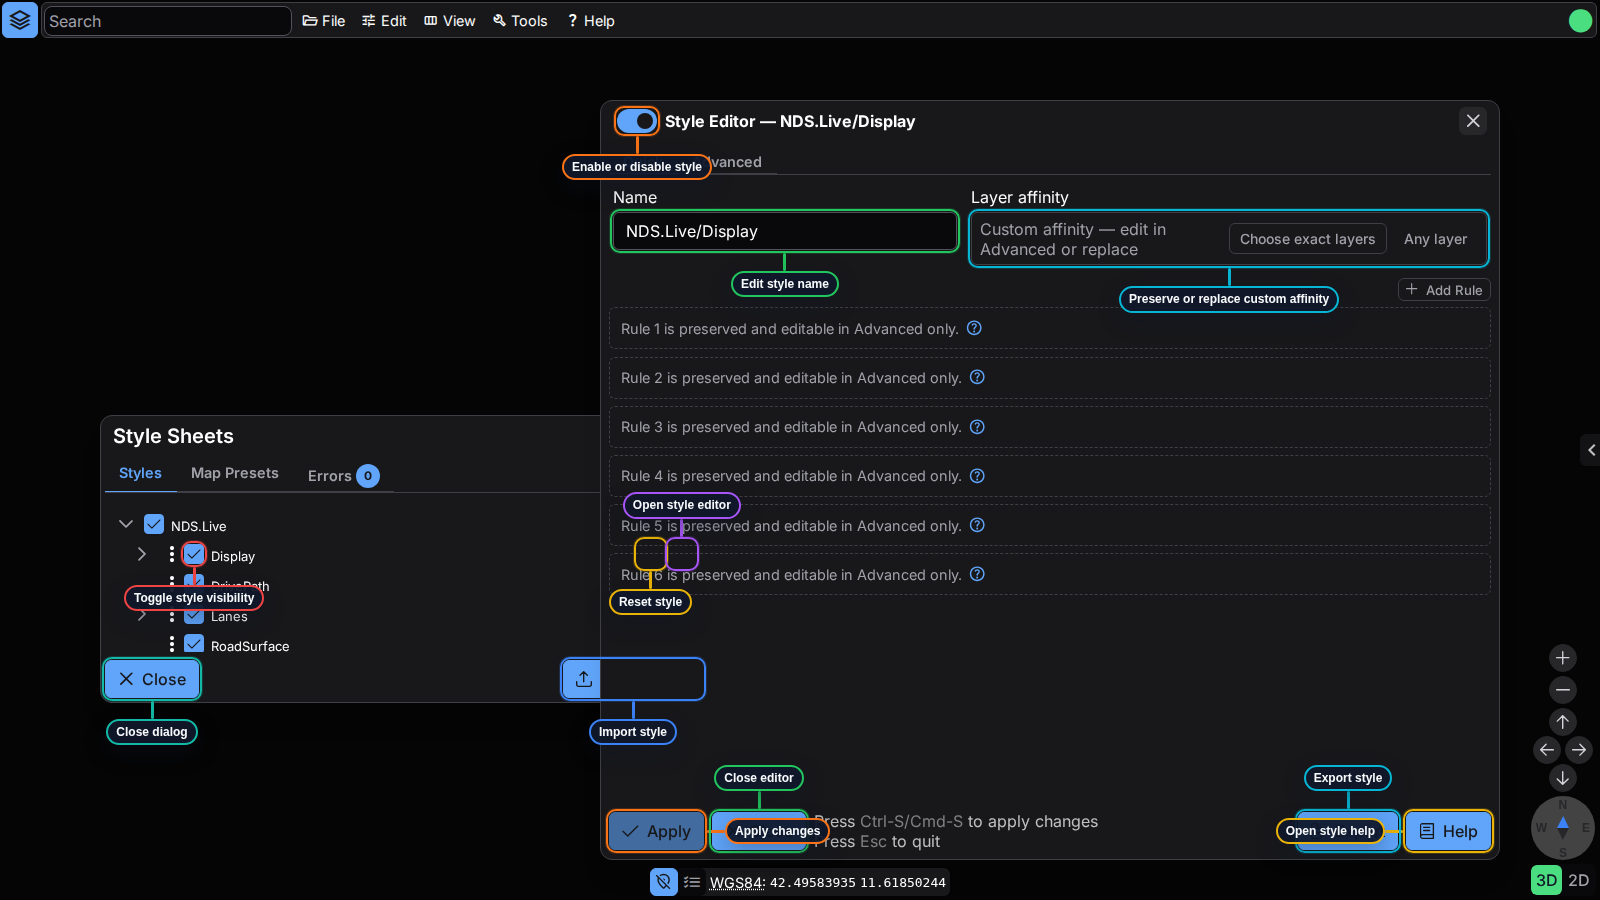
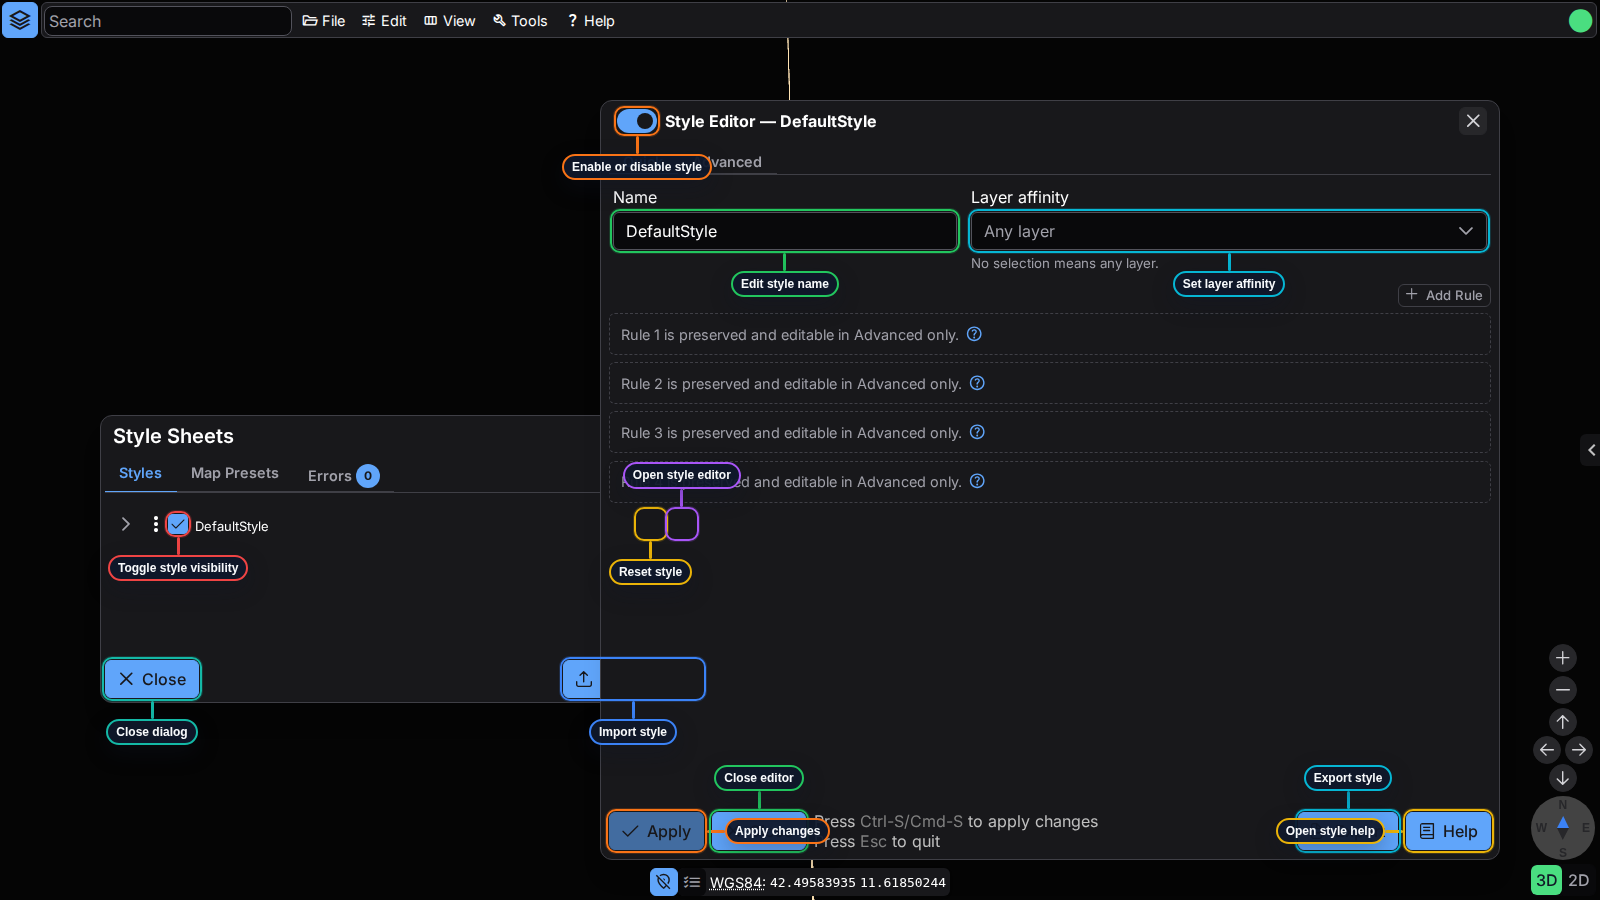
Restore standalone style bundle snapshots

diff --git a/playwright/snap-tests/style-component.snap.spec.ts b/playwright/snap-tests/style-component.snap.spec.ts
@@ -10,7 +10,7 @@ import {
 
 const MAP_INDEX = 0;
 const LAYER_INDEX = 0;
-const CONFIGURED_STYLE_TEST_ID = 'nds-live-display';
+const CONFIGURED_STYLE_TEST_ID = 'default-style';
 test.use({ stateSnapshot: 'style_editor_state' });
 
 test.describe('Snapshot – style component', () => {
@@ -45,7 +45,7 @@ test.describe('Snapshot – style component', () => {
             .toBeVisible();
         await expect(editorDialog.getByTestId('style-editor-enabled')).toBeVisible();
         await expect(editorDialog.getByTestId('style-editor-quick-name')).toBeVisible();
-        await expect(editorDialog.getByTestId('style-editor-custom-affinity')).toBeVisible();
+        await expect(editorDialog.getByTestId('style-editor-quick-layers')).toBeVisible();
 
         await page.mouse.move(0, 0);
         await expect(page).toHaveScreenshot('style-component-editor.png', {
@@ -83,8 +83,8 @@ test.describe('Snapshot – style component', () => {
                 label: 'Edit style name'
             },
             {
-                locator: editorDialog.getByTestId('style-editor-custom-affinity'),
-                label: 'Preserve or replace custom affinity'
+                locator: editorDialog.getByTestId('style-editor-quick-layers'),
+                label: 'Set layer affinity'
             },
             {
                 locator: editorDialog.getByTestId('style-editor-apply-button'),
